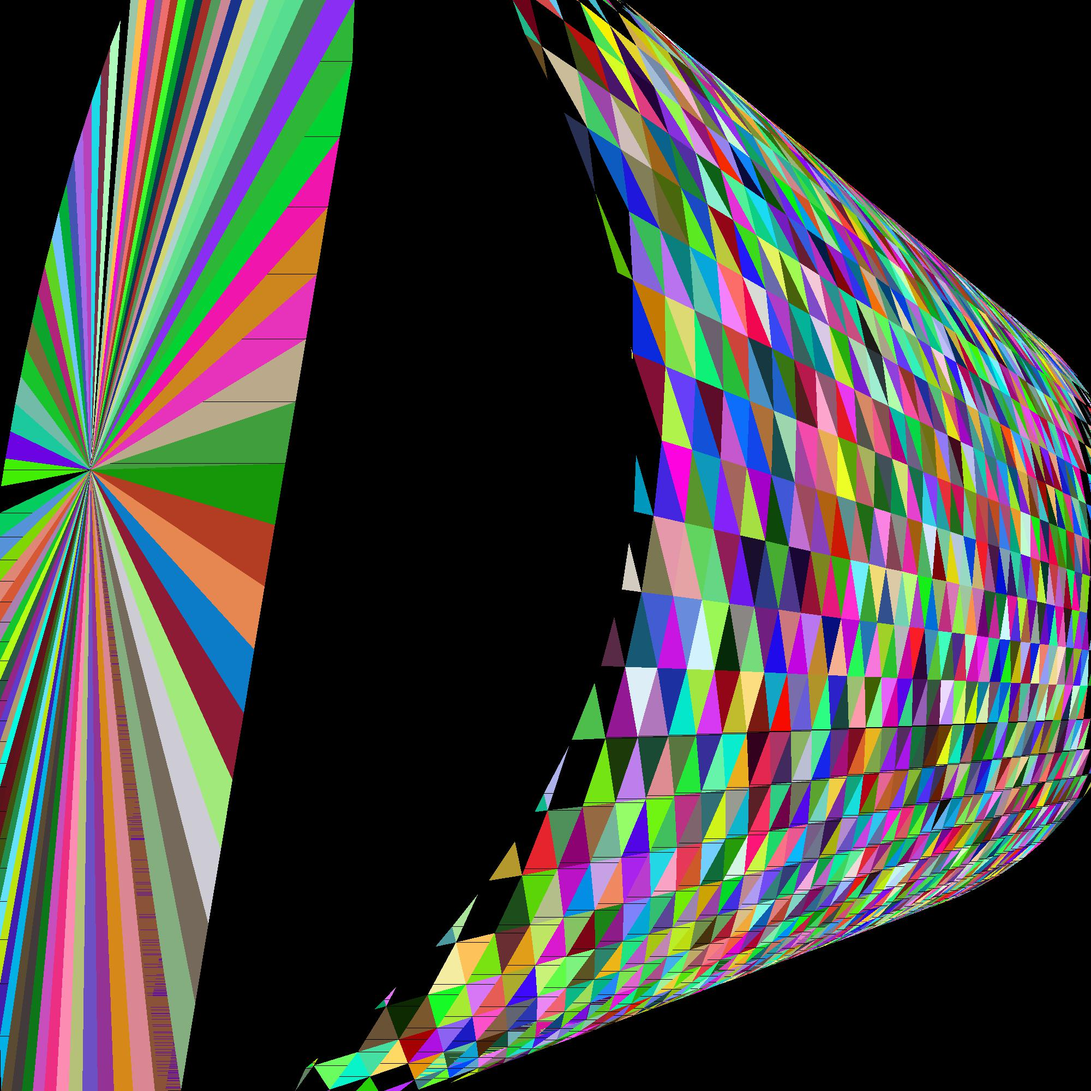
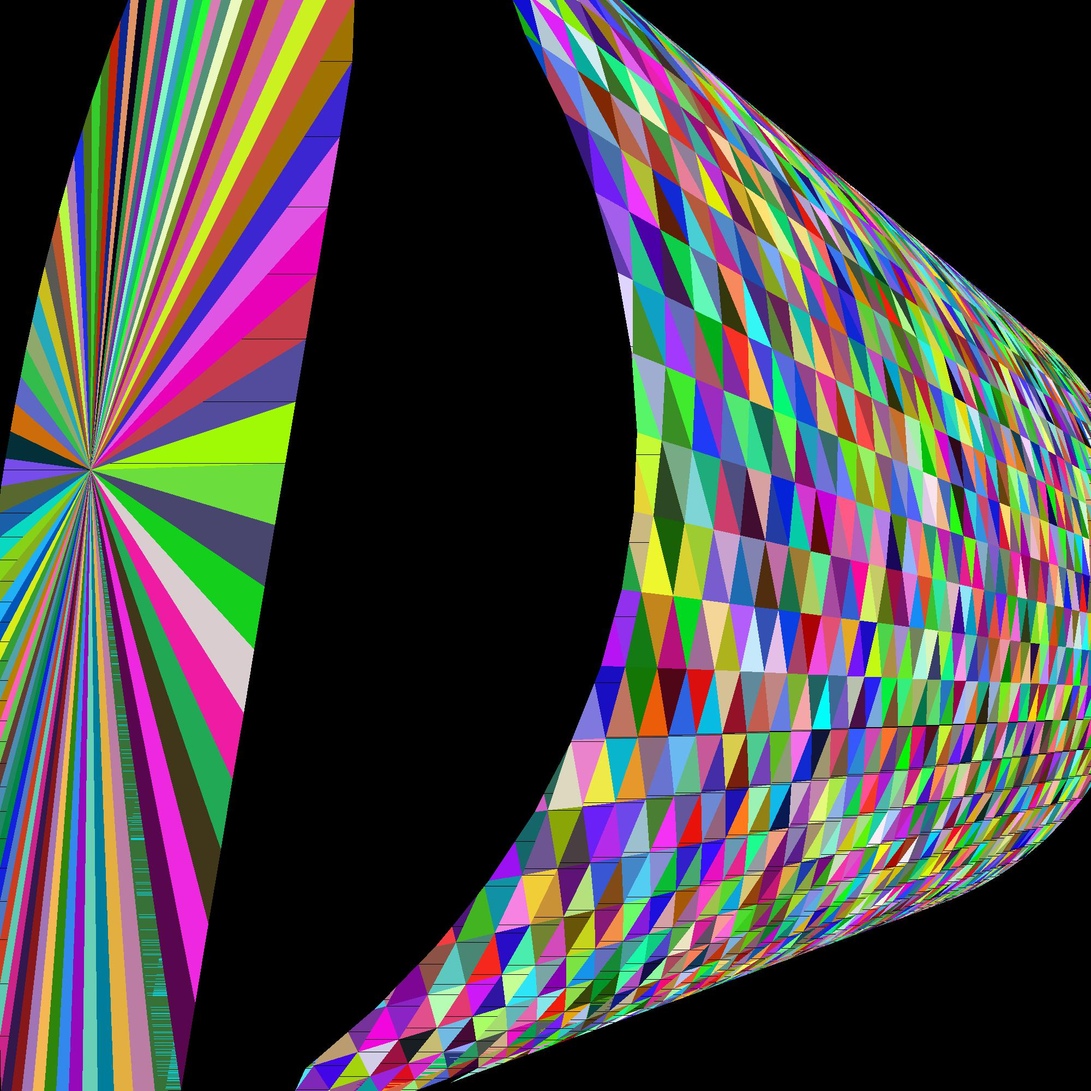
fixed clipping

diff --git a/a4/clipping.py b/a4/clipping.py
@@ -19,14 +19,21 @@ def clip(face_list):
                 vertices.append(find_intersection((n,m)))
                 vertices.append(n)
 
-        if len(vertices) != 3:
-            # entire thing outside
-            pass
-        else:
+        if len(vertices) == 3:
             face.v1 = vertices[0]
             face.v2 = vertices[1]
             face.v3 = vertices[2]
             new_face_list.append(face)
+        elif len(vertices) == 4:
+            # TODO: change order to make phong shading work
+            face.v1 = vertices[0]
+            face.v2 = vertices[1]
+            face.v3 = vertices[2]
+            new_face_list.append(face)
+            face2 = Face(vertices[0], vertices[2], vertices[3], face.rgb)
+            new_face_list.append(face2)
+
+            
 
     return new_face_list
 
@@ -35,9 +42,9 @@ def is_inside(vertex):
     y = vertex[1]
     z = vertex[2]
 
-    x_in = x <= 1 and x >= -1
-    y_in = y <= 1 and y >= -1
-    z_in = z <= 1 and z >= 0
+    x_in = x <= 1.0 and x >= -1.0
+    y_in = y <= 1.0 and y >= -1.0
+    z_in = z <= 1.0 and z >= 0.0
 
     res = x_in and y_in and z_in
     return res
@@ -46,9 +53,9 @@ def find_intersection(edge):
     inside = edge[0]
     outside = edge[1]
 
-    if not (outside[0] <= 1 and outside[0] >= -1): # x outside
+    if not (outside[0] <= 1.0 and outside[0] >= -1.0): # x outside
         new_x = 1.0 
-        if outside[0] < -1:
+        if outside[0] < -1.0:
             new_x = -1.0
         
         scale = (new_x - inside[0]) / (outside[0] - inside[0])
@@ -58,9 +65,9 @@ def find_intersection(edge):
 
         outside = (new_x, new_y, new_z)
 
-    if not (outside[1] <= 1 and outside[1] >= -1):
+    if not (outside[1] <= 1.0 and outside[1] >= -1.0):
         new_y = 1.0 
-        if outside[1] < -1:
+        if outside[1] < -1.0:
             new_y = -1.0
         
         scale = (new_y - inside[1]) / (outside[1] - inside[1])
@@ -70,9 +77,9 @@ def find_intersection(edge):
 
         outside = (new_x, new_y, new_z)
 
-    if not (outside[2] <= 1 and outside[2] >= 0):
+    if not (outside[2] <= 1.0 and outside[2] >= 0.0):
         new_z = 1.0 
-        if outside[2] < 0:
+        if outside[2] < 0.0:
             new_z = 0.0
         
         scale = (new_z - inside[2]) / (outside[2] - inside[2])
